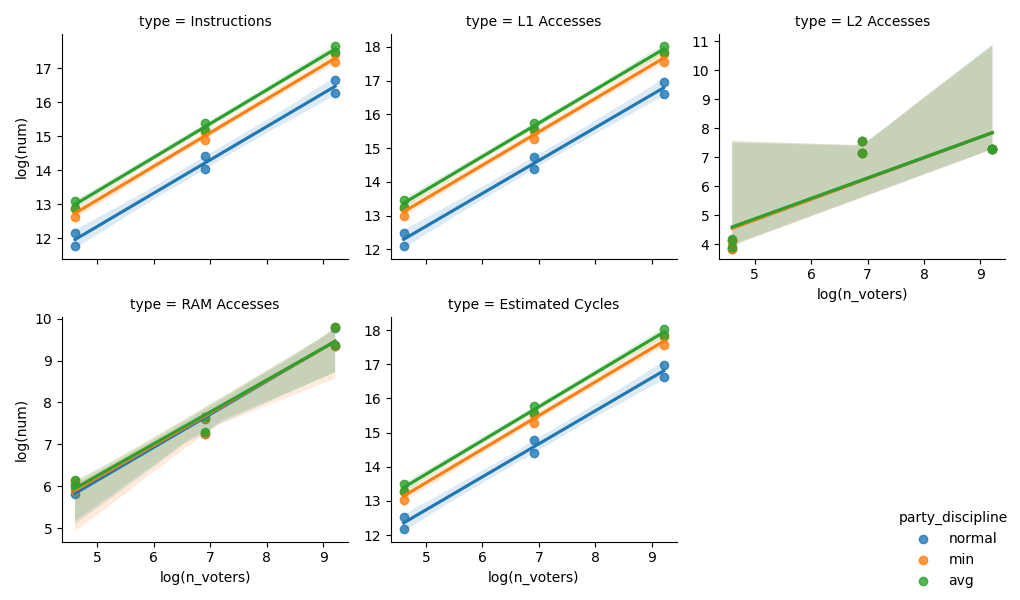
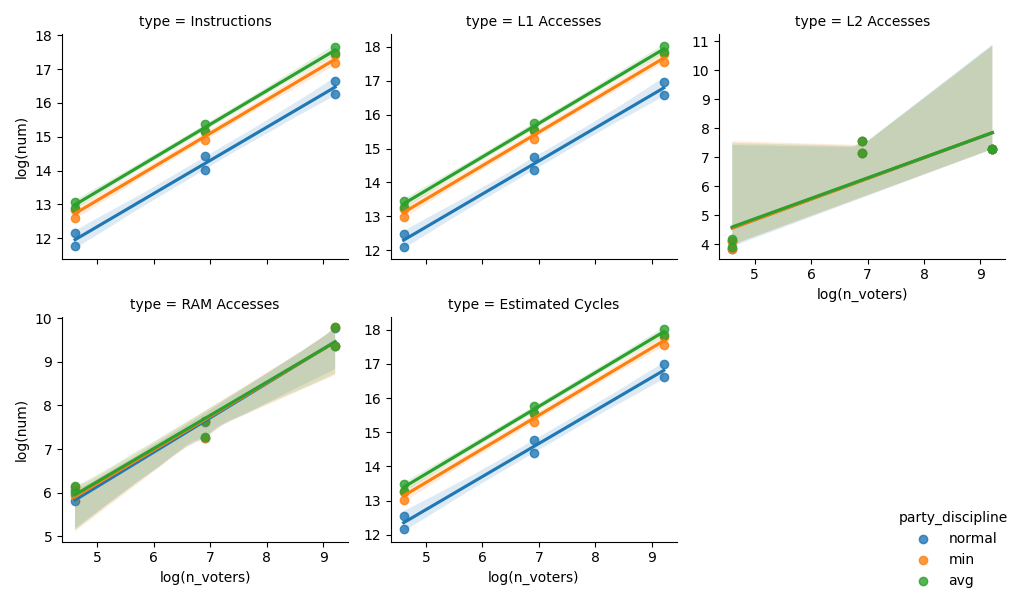
benches-analysis: automate parsing of iai output

diff --git a/benches/plot_iai.py b/benches/plot_iai.py
@@ -3,22 +3,22 @@ import numpy as np
 import seaborn as sns
 import matplotlib.pyplot as plt
 import matplotlib.ticker as ticker
+from parse_iai import parse_data
 
-def clean_data():
-    df = pd.read_csv('target/iai.csv')
-
-    df['type'] = df['type'].astype(str)
-    df['type'] = df['type'].str.strip()
+def clean_data(data):
+    df = pd.DataFrame(data).T
+    df.reset_index(inplace=True)
+    df = df.melt(id_vars=['index'])
+    df.columns = ['name', 'type', 'num']
 
     splitted = df['name'].str.split('_', expand=True)
     # inaccurate for splitted, only for merged df later
     splitted.columns = ['method', 'n_seats', 'n_voters', 'party_discipline']
 
-    first_stv_idx = splitted.query('method == "stv"').iloc[0].name
-    non_stv_info = splitted.iloc[:first_stv_idx]
+    non_stv_info = splitted.query('method != "stv"')
     non_stv_info['n_choices'] = 3
 
-    stv_info = splitted.iloc[first_stv_idx:]
+    stv_info = splitted.query('method == "stv"')
     # the n_seats col is actually storing n_choices
     stv_info['n_choices'] = stv_info['n_seats']
     # n_seats is constant for all stv
@@ -50,6 +50,7 @@ def clean_data():
     df['n_seats'] = df['n_seats'].astype(int)
     df['n_voters'] = df['n_voters'].astype(int)
     df['n_choices'] = df['n_choices'].astype(int)
+    df['num'] = df['num'].astype(int)
     df['log(n_voters)'] = np.log(df.n_voters)
     df['log(num)'] = np.log(df.num)
     return df
@@ -140,7 +141,8 @@ def comp(df):
     plt.close()
 
 
-df = clean_data()
+data = parse_data()
+df = clean_data(data)
 plot_by_type(df, df['method'] != 'stv', 'n_seats', [10, 50], 'iai_non_stv')
 plot_simple_reg(df, df['method'] != 'stv', 'method', 'iai_non_stv_reg')
 comp(df)

diff --git a/benches/parse_iai.py b/benches/parse_iai.py
@@ -1,0 +1,25 @@
+def parse_data() -> dict[str, dict[str, str]]:
+    with open('target/iai.txt', 'r') as f:
+        lines = f.readlines()
+
+    data: dict[str, dict[str, str]] = {}
+    for line in lines:
+        # ignore empty lines
+        if line == '\n':
+            continue
+
+        if line.startswith(' '):
+            splitted = line.split(':')
+            ty = splitted[0].strip()
+            num = splitted[1].strip().removesuffix('\n')
+            # by python 3.7, dictionaries maintain insertion order
+            k, v = data.popitem()
+            v[ty] = num
+            data[k] = v
+        else:
+            # turn the underscore into dash to distinguish it from underscores
+            # that separate other paramenter infos
+            name = line.removesuffix('\n').replace('sainte_lague', 'sainte-lague')
+            data[name] = {}
+
+    return data

diff --git a/benches/README.md b/benches/README.md
@@ -105,10 +105,10 @@ Normal party discipline is actually misleadingly named, because it means no part
 
 # Plotting it yourself
 
-TODO: the cachegrind numbers are from the stdout output of the iai benchmarks, which was manually saved and processed into a csv. It will soon be automated, but as of now the iai script will fail.
-
 ```sh
-cargo bench
+cargo bench > target/iai.txt
+# manually delete lines that are not iai's outputs
+
 mkdir -p benches/out
 python benches/analysis.py
 python benches/plot_iai.py
